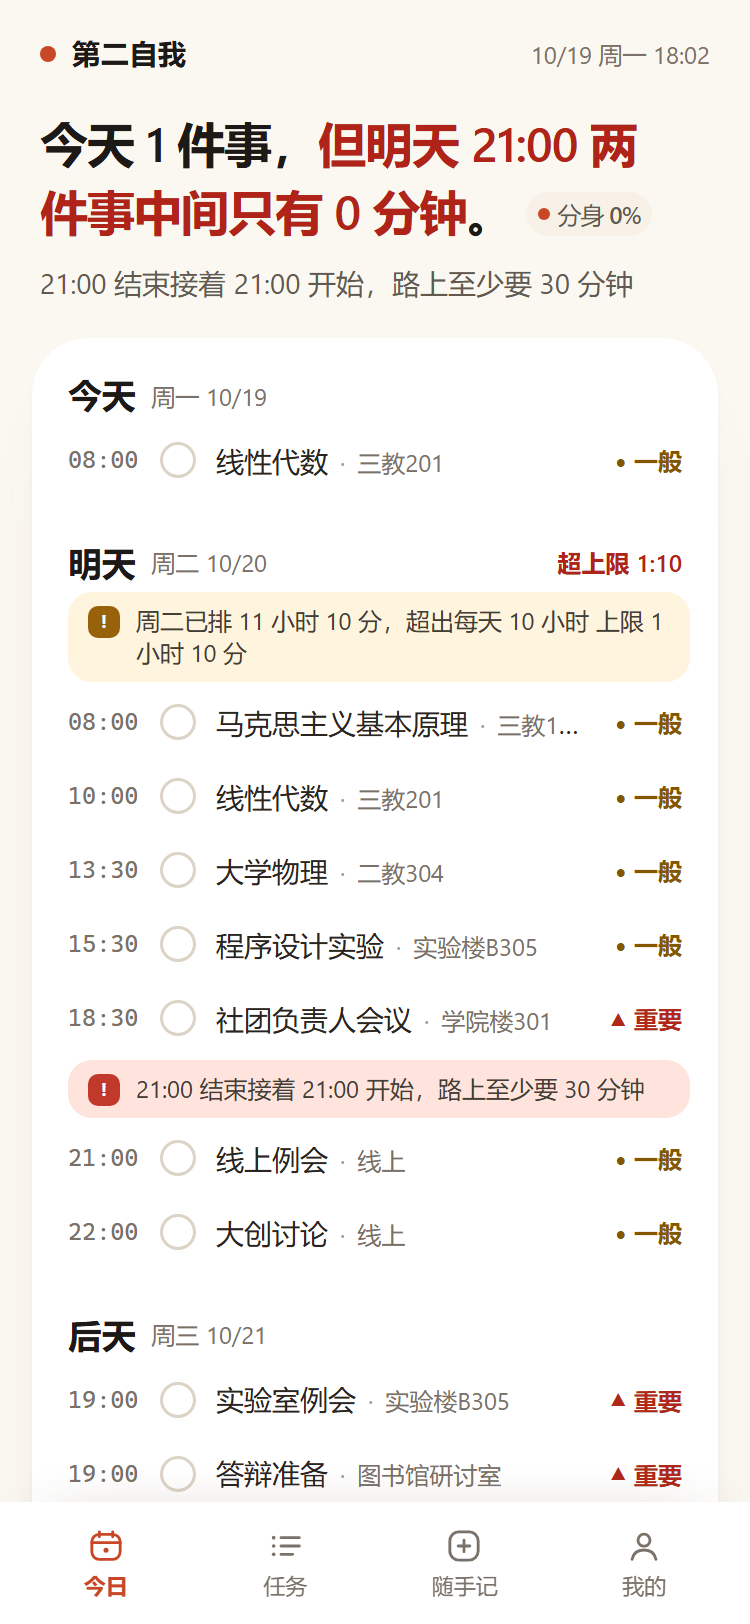
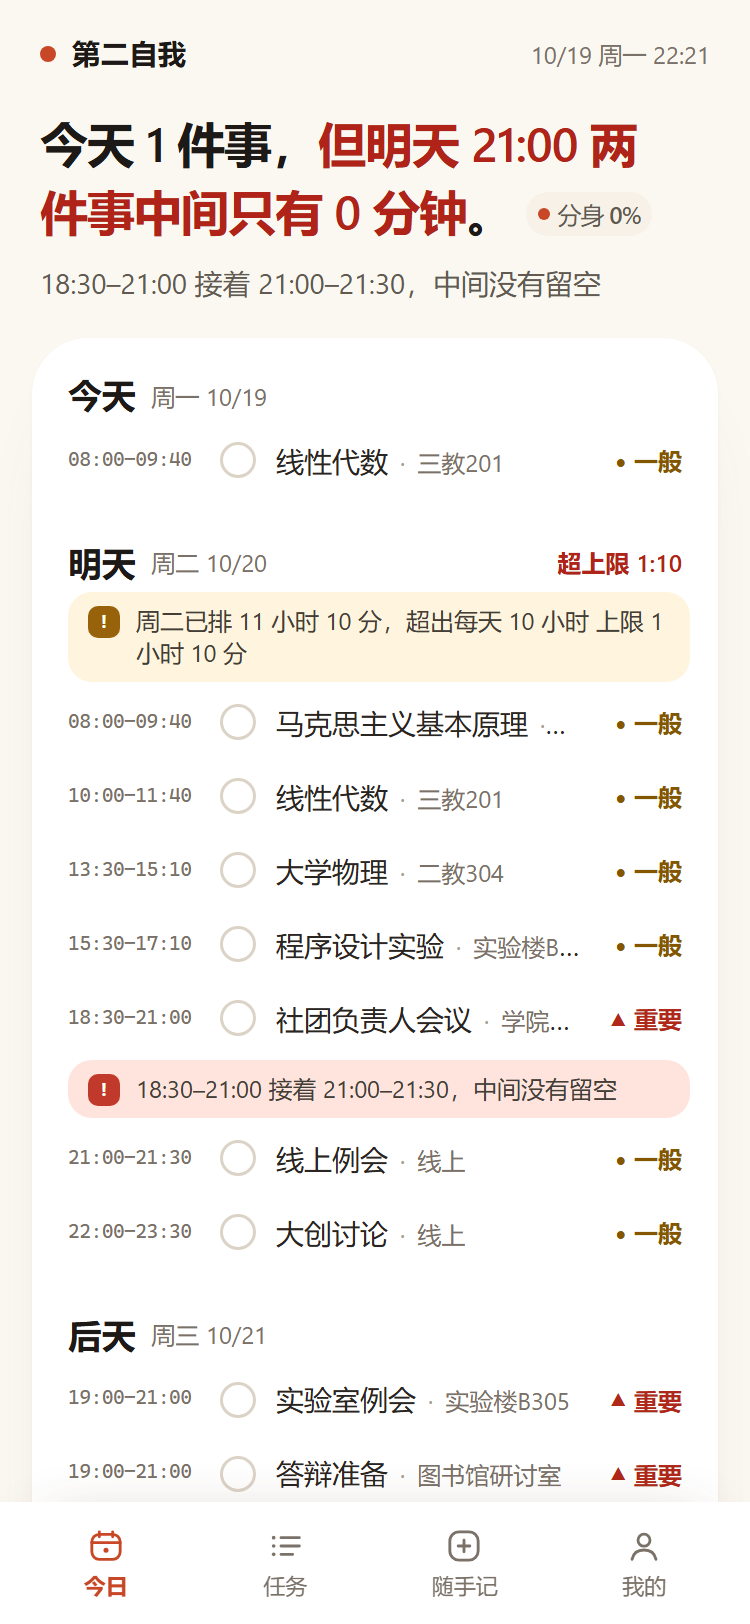
feat: 今日页截图换成区间文案版 + 时间轴注释同步新口径
- `docs/screenshots/tab-today.png` 重拍：旧图（22:06）冲突行仍印着「21:00 结束接着 21:00 开始，路上至少要 30 分钟」，而 `3adc021` 起产品已改区间口径——此图与 `03-演示视频/截图/tab-today.png` 逐字节一致（SHA256 前 12 位同为 `FADDECD65E11`，191,977 B，750×1624 = 375×2x），材料与仓库不再各说各话
- 新图取的是 HEAD `3adc021` 跑着的页面：冲突行显示「18:30–21:00 接着 21:00–21:30，中间没有留空」，时间轴每行也是 `18:30–21:00` 区间，评委看图即可自证
- `ThreeDayAgenda.tsx` 仅两行注释改成新口径并注明「375 宽不换行」，无逻辑改动
验证：`npm run verify` 24 文件 348 用例全绿（2026-10-19 22:22 实跑，HEAD 3adc021 + 本笔）——**此数字作为文档三处「数字冻结」的基准**

diff --git a/src/ui/composites/ThreeDayAgenda.tsx b/src/ui/composites/ThreeDayAgenda.tsx
@@ -222,8 +222,9 @@ function TaskRow({
       )}
     >
       {/* 时刻显示成区间，不是只给开始时间：
-          冲突提示说「21:00 结束接着 21:00 开始」，要是上一行只写 18:30，
-          用户和评委都没法自己验算这条冲突。有结束时间就写成 18:30–21:00。 */}
+          冲突提示现在说「18:30–21:00 接着 21:00–21:30，中间没有留空」，
+          要是上一行只写 18:30，用户和评委都没法自己验算这条冲突。
+          有结束时间就写成 18:30–21:00（列宽 66px、10px 字，375 宽不换行）。 */}
       <span className="tnum w-[66px] shrink-0 font-mono text-[10px] leading-tight tracking-tight text-ink-400">
         {hasBlock ? `${formatClock(startMs)}–${formatClock(endMs)}` : "DDL"}
       </span>
